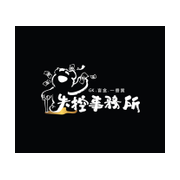
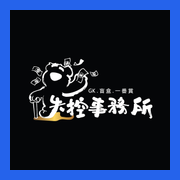
go

diff --git a/scripts/generate-icons.js b/scripts/generate-icons.js
@@ -9,45 +9,48 @@ async function generateIcons() {
   console.log('開始生成 PWA 圖標...\n')
 
   const sizes = [
-    { size: 180, name: 'apple-touch-icon.png', padding: 15 }, // iOS 專用（白底有 padding）
-    { size: 192, name: 'icon-192.png', padding: 0 },
-    { size: 512, name: 'icon-512.png', padding: 0 },
-    { size: 192, name: 'icon-192-maskable.png', padding: 20 },
-    { size: 512, name: 'icon-512-maskable.png', padding: 50 },
+    { size: 180, name: 'apple-touch-icon.png', padding: 10, bgColor: '#2563eb' }, // iOS 專用（藍底）
+    { size: 192, name: 'icon-192.png', padding: 10, bgColor: '#2563eb' },
+    { size: 512, name: 'icon-512.png', padding: 20, bgColor: '#2563eb' },
+    { size: 192, name: 'icon-192-maskable.png', padding: 20, bgColor: '#2563eb' },
+    { size: 512, name: 'icon-512-maskable.png', padding: 50, bgColor: '#2563eb' },
   ]
 
-  for (const { size, name, padding } of sizes) {
+  for (const { size, name, padding, bgColor } of sizes) {
     const outputPath = path.join(outputDir, name)
     const contentSize = size - padding * 2
 
+    // 將 hex 顏色轉換為 RGB
+    const hexToRgb = (hex) => {
+      const result = /^#?([a-f\d]{2})([a-f\d]{2})([a-f\d]{2})$/i.exec(hex)
+      return result ? {
+        r: parseInt(result[1], 16),
+        g: parseInt(result[2], 16),
+        b: parseInt(result[3], 16),
+        alpha: 1
+      } : { r: 37, g: 99, b: 235, alpha: 1 } // 預設藍色
+    }
+
+    const bgRgb = hexToRgb(bgColor)
+
     try {
-      if (padding > 0) {
-        // Maskable 圖標（有 padding）
-        await sharp(inputFile)
-          .resize(contentSize, contentSize, { 
-            fit: 'contain', 
-            background: { r: 255, g: 255, b: 255, alpha: 1 }
-          })
-          .extend({
-            top: padding,
-            bottom: padding,
-            left: padding,
-            right: padding,
-            background: { r: 255, g: 255, b: 255, alpha: 1 }
-          })
-          .png()
-          .toFile(outputPath)
-      } else {
-        // 普通圖標
-        await sharp(inputFile)
-          .resize(size, size, { 
-            fit: 'contain',
-            background: { r: 255, g: 255, b: 255, alpha: 1 }
-          })
-          .png()
-          .toFile(outputPath)
-      }
-      console.log(`✓ 生成 ${name} (${size}x${size})`)
+      // 統一使用有色背景 + padding
+      await sharp(inputFile)
+        .resize(contentSize, contentSize, {
+          fit: 'cover',
+          position: 'center'
+        })
+        .extend({
+          top: padding,
+          bottom: padding,
+          left: padding,
+          right: padding,
+          background: bgRgb
+        })
+        .png()
+        .toFile(outputPath)
+
+      console.log(`✓ 生成 ${name} (${size}x${size}) - ${bgColor}`)
     } catch (error) {
       console.error(`✗ 生成 ${name} 失敗:`, error.message)
     }
